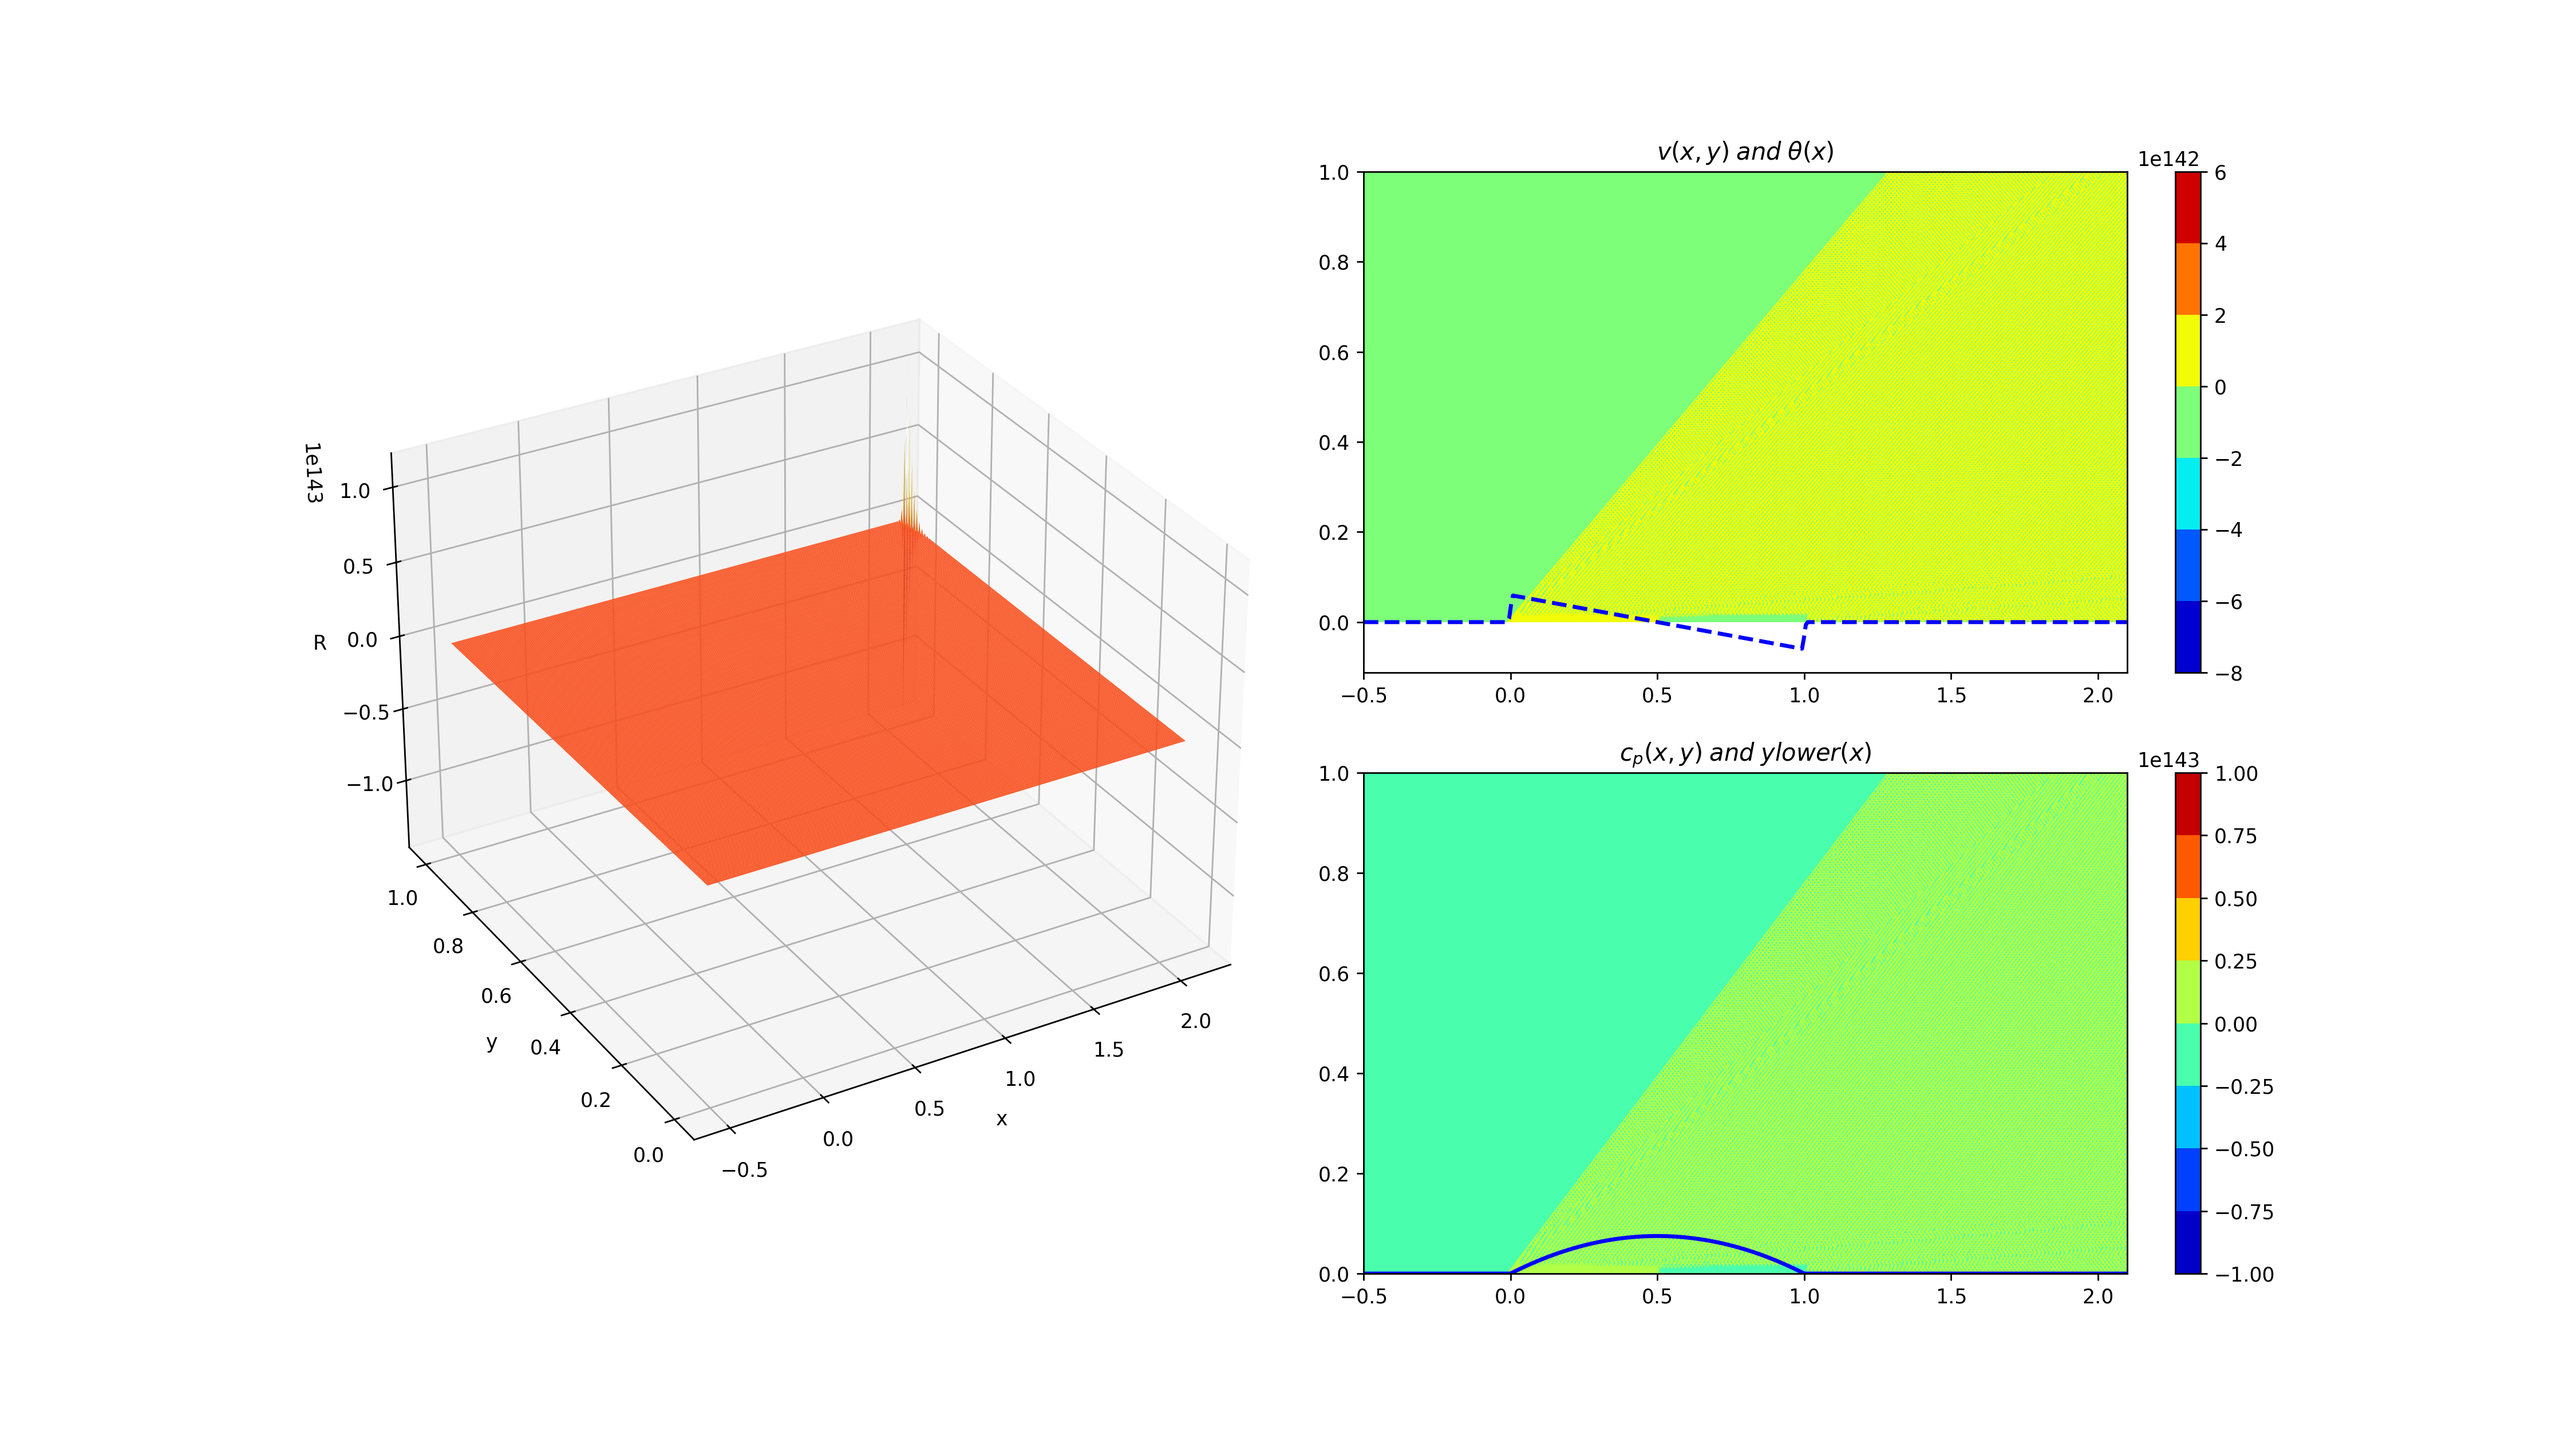
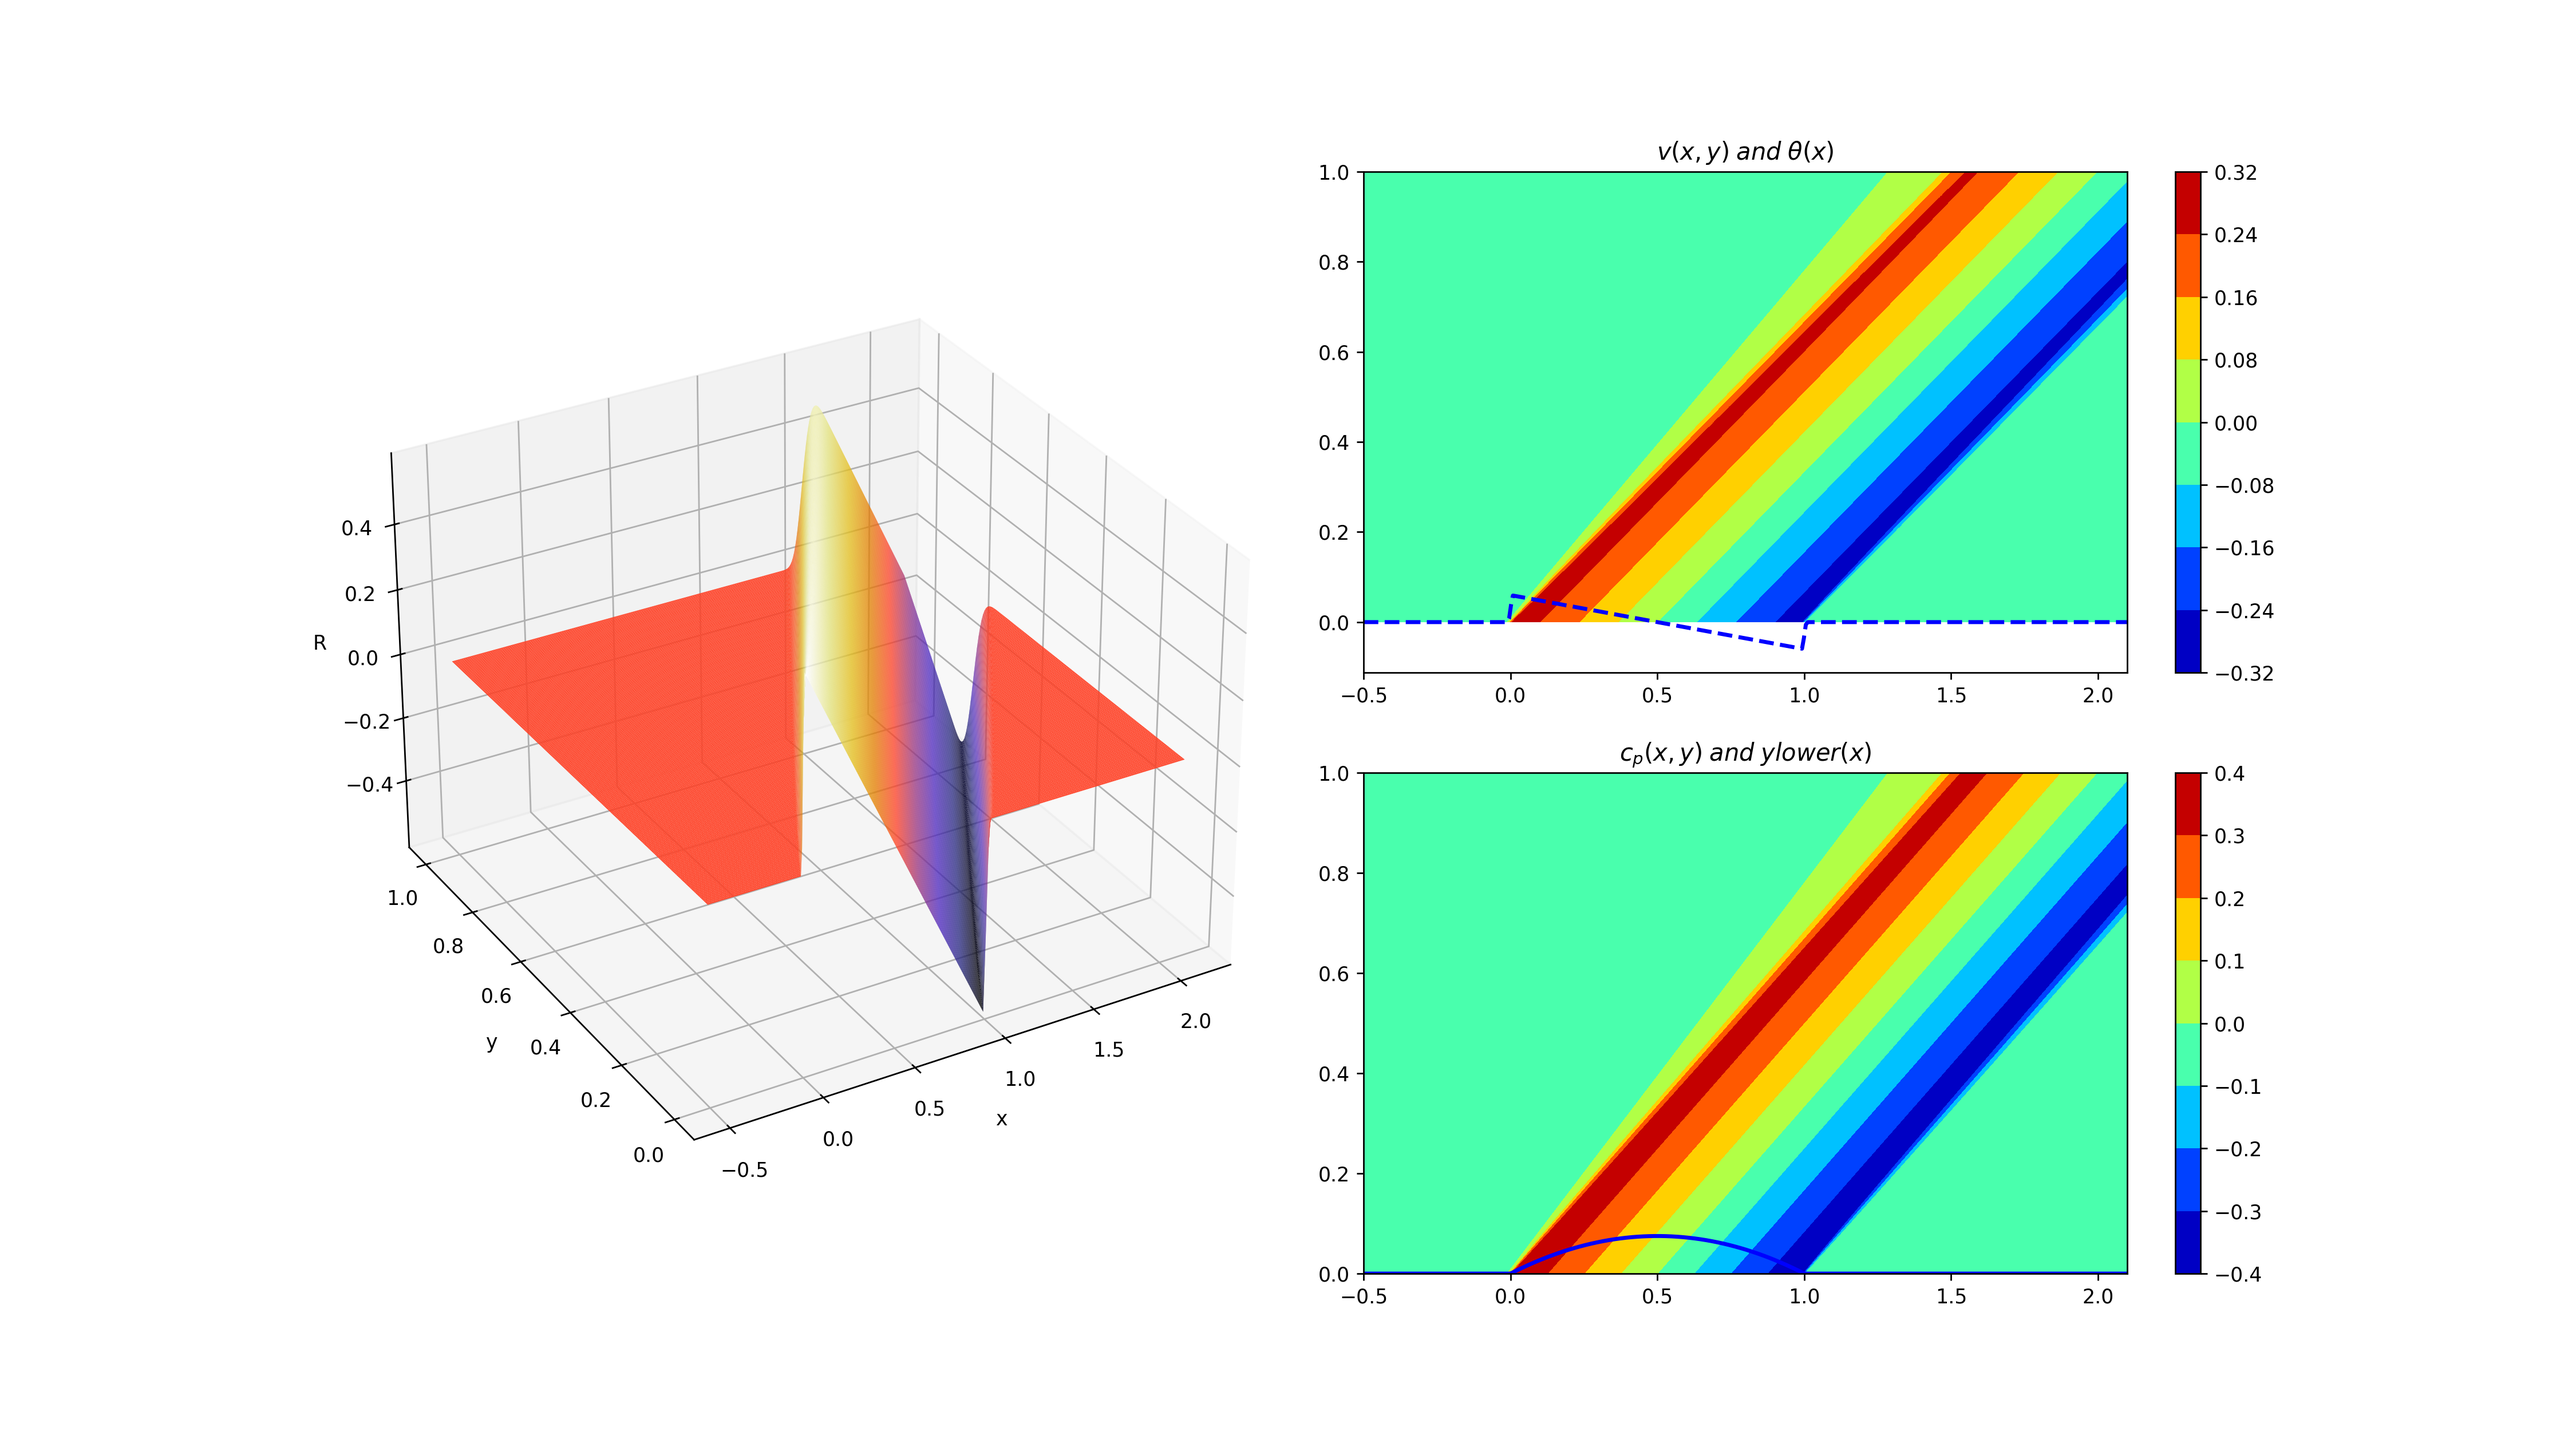
change in values

Changed region(s): [[0.5289, 0.0936, 0.8711, 0.4368], [0.5911, 0.5304, 0.84, 0.9048], [0.1244, 0.2808, 0.4667, 0.6864]]

diff --git a/ws1_25_InClass.py b/ws1_25_InClass.py
@@ -30,8 +30,8 @@ targArea   = 0.10;               # Body target area
 x1         = -0.5;               # Forward boundary position
 x2         = 2.1;                # Rear boundary position
 y2         = 1.0;                # Upper boundary position
-nmax       = 400;                 # Number of mesh points in i
-jmax       = 200;                 # Number of mesh points in j
+nmax       = 800;                 # Number of mesh points in i
+jmax       = 100;                 # Number of mesh points in j
 
 plots      = 1;                  # Make plots if not zero
 stride     = 1;                  # Point skip rate for suface plot
